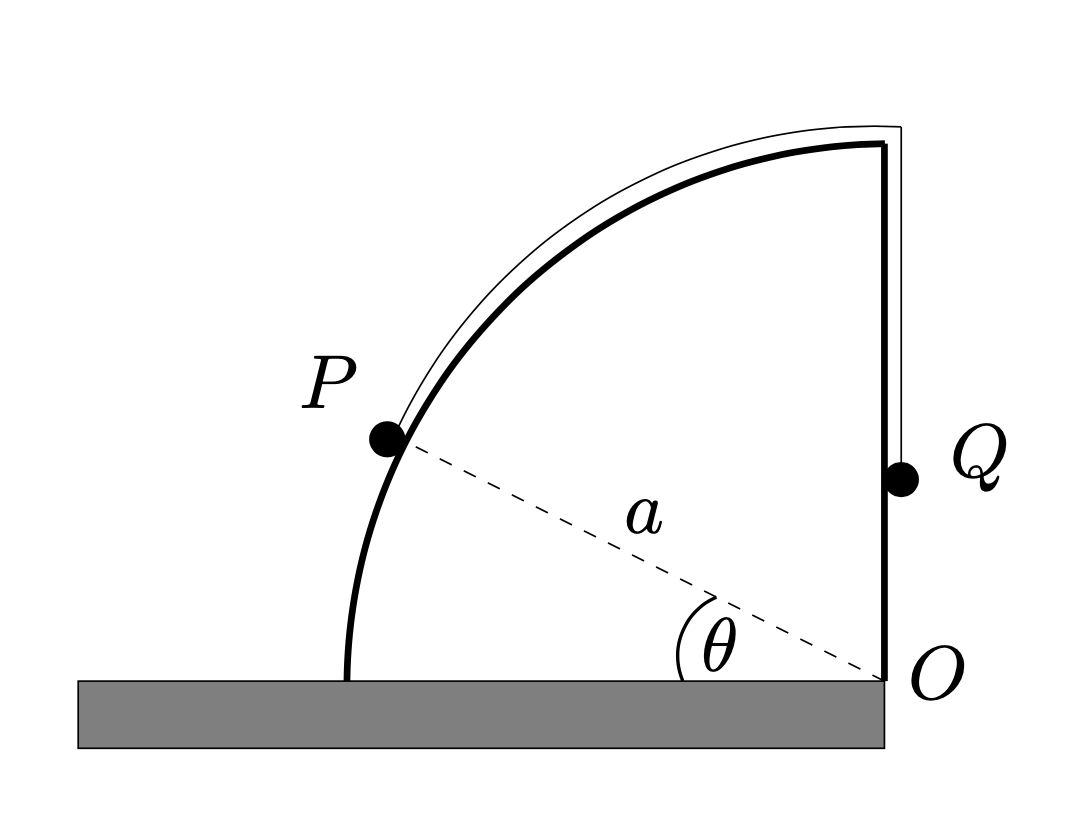
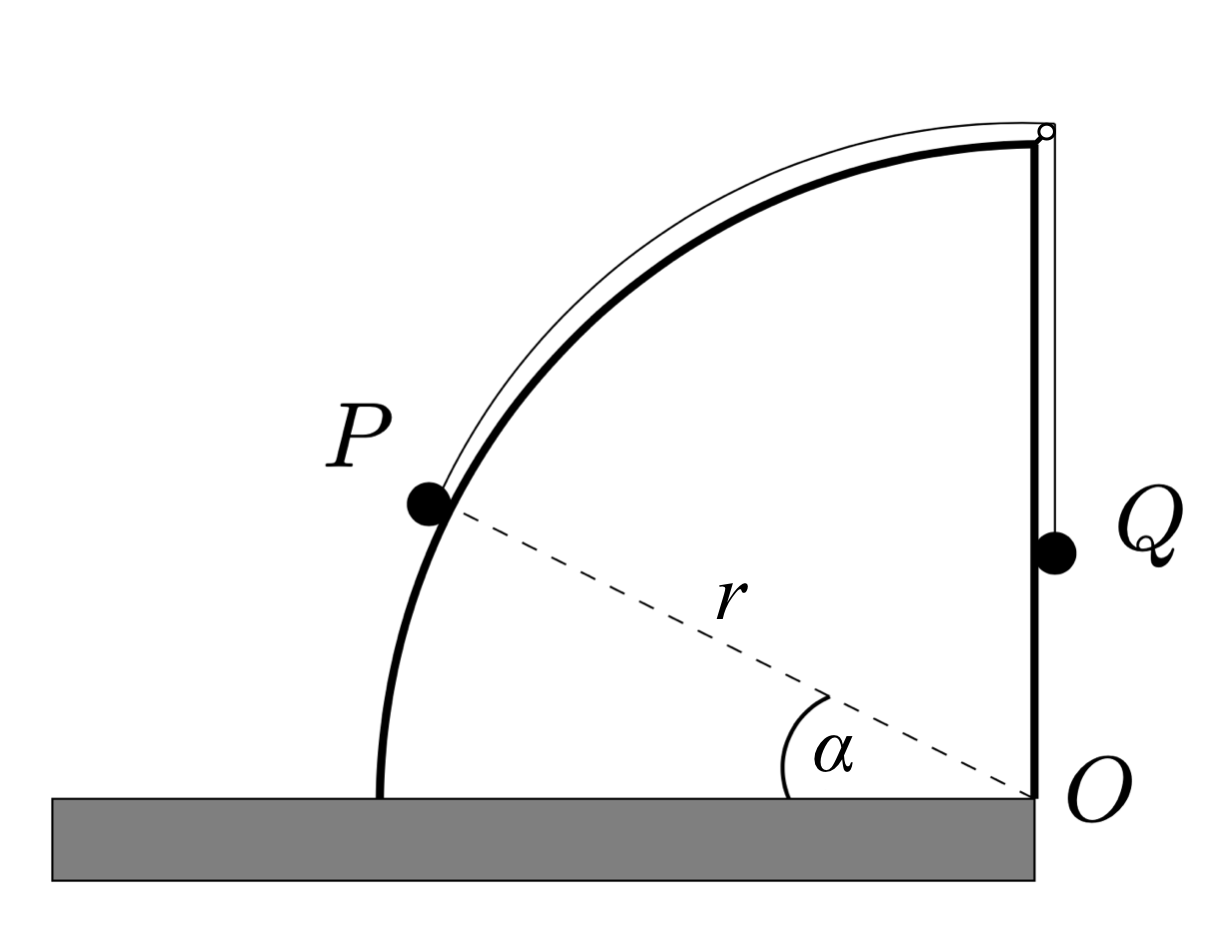
add articles

diff --git a/_posts/2020-12-08-step-3-mechanics-2010-9-solution-1.md b/_posts/2020-12-08-step-3-mechanics-2010-9-solution-1.md
@@ -1,22 +1,122 @@
 ---
-title: 连接体问题求解 (一) —— 以 2010 STEP 3 - Mechanics 第九题为例
+title: 连接体问题求解 (一) —— 改编自 2010 STEP 3 - Mechanics 第 9 题
 url: step-3-mechanics-2010-9-solution-1
 date: 2020-12-08 08:08:39
 tags:
 - STEP
 - A Level
+- Mechanics
 categories:  mechanics
-description: 以 2010 STEP 3 Mechanics 为例，提供思路，并给出两种求解方式。
+description: 以 2010 STEP 3 Mechanics 第 9 题 (改编) 为例，提供解题思路，并给出两种求解方式。
 ---
 
-## 0. 真题
+## 0. 改编题
 
-The diagram shows two particles, $P$ and $Q$, connected by a light inextensible string which passes over a smooth block fixed to a horizontal table. The cross-section of the block is a quarter circle with centre $O$, which is at the edge of the table, and radius $a$. The angle between $OP$ and the table is $\theta$. The masses of $P$ and $Q$ are $m$ and $M$, respectively, where $m \lt M$.
-Initially, $P$ is held at rest on the table and in contact with the block, $Q$ is vertically above $O$, and the string is taut. Then $P$ is released. Given that, in the subsequent motion, P remains in contact with the block as θ increases from $0$ to $\frac{\pi}{2}$, find an expression, in terms of $m$, $M$, $\theta$ and $g$, for the normal reaction of the block on $P$ and show that
+> 本题来自 2010 STEP 3 Mechanics 第 9 题，略有改编。
+
+The diagram shows two particles, $P$ and $Q$, connected by a light inextensible string which passes over a pully. Thr block is smooth and is fixed to a horizontal table. The cross-section of the block, radius $r$, is a quarter circle with centre $O$, which is at the edge of the table. The angle between $OP$ and the table is $\theta$. The masses of $P$ and $Q$ are $m$ and $M$, respectively, where $m \lt M$.
+
+Initially, $P$ is held at rest on the table and in contact with the block, $Q$ is vertically above $O$, and the string is taut. Then $P$ is released. $P$ remains in contact with the block as $\alpha$ increases from $0$ to $\frac{\pi}{2}$ in the subsequent motion.
+
+1. Find an expression for the normal reaction of the block on $P$, using $m$, $M$, $\alpha$ and $g$;
+2. Show that
 
 $$
 \frac{m}{M} \geqslant \frac{\pi-1}{3}
 $$
 
-
 <img src='/assets/images/2020-12-08-step-3-mechanics-2010-9-solution-1/fig.png' style='zoom:40%; margin: 0 auto; display: block;'/>
+
+> 中文版
+
+如图所示，物体 $P$ 用不可伸长的轻绳绕过光滑的定滑轮与物体 $Q$ 相连，$P$ 放置于固定在水平桌面的木块上，木块的横截面是以 $O$ 为圆心，半径为 $r$ 的四分之一圆，位于桌面边缘。$P$ 和 $Q$ 的质量分别为 $m$ 和 $M$，且 $m \lt M$。
+
+$P$ 静止在桌面上并与木块接触，$Q$ 在 $O$ 点正上方，绳子绷紧。若释放物体 $P$，在 $\theta$ 从 $0$ 到 $\frac{\pi}{2}$ 的过程中 $P$ 始终未脱离木块。
+
+1. 求木块对 $P$ 的支持力 (用 $m$、$M$、$\alpha$ 和 $g$ 表示)；  
+2. 证明：
+$$
+\frac{m}{M} \geqslant \frac{\pi-1}{3}
+$$
+
+## 1. 解析 (一)
+
+这是一个连接体问题，由于 $P$ 和 $Q$ 物体用一根轻质绳子连接，$P$ 在弧面运动时，$Q$ 点会下落。由于 $P$ 在整个过程中始终未脱离木块，即 $P$ 运动的速度始终沿着圆弧的切线方向。
+
+对 $P$ 和 $Q$ 物体进行受力分析，并判断状态：
+
+<img src='/assets/images/2020-12-08-step-3-mechanics-2010-9-solution-1/analysis.png' style='zoom:40%; margin: 0 auto; display: block;'/>
+
+$P$ 物体受到重力 $W_P$，木块支持力 $R$，绳子的拉力 $T$。而 $Q$ 物体受到重力 $W_Q$，绳子的拉力 $T$ (同一根绳子的拉力相同)。
+
+由于 $m \lt M$，因此 $Q$ 物体会向下运动，假设向下运动的加速度为 $a$。由于同一根绳子拉力相同，因此 $P$ 物体会沿着切线做加速运动，此外 $P$ 物体又在圆弧面上做圆周运动。
+
+在某一角度 $\alpha$ 下，$P$ 点做圆周运动的方程：
+
+$$
+m g sin \alpha - R = m\frac{v^2}{r} 
+$$
+
+> 这里的 $v$ 指的是切向速度。
+
+由于 $Q$ 物体下落以及绳子的牵引作用，$P$ 物体沿着切线方向的速度在不断增加。可以写出物体 $P$ 在切线方向的方程：
+
+$$
+T - mgcos \alpha = m a
+$$
+
+以及 $Q$ 物体下落的方程：
+
+$$
+Mg - T = M a
+$$
+
+这里，切线方向的加速度会使得速度 $v$ 增加，求解起来比较困难 (可看下篇文章介绍)。 那应该怎么处理呢？
+
+上面三个方程写出了 $P$、$Q$ 两物体受力和运动，那还应该从哪个角度思考呢？—— 能量！
+
+> 试着用动力学的角度求解。
+
+可以写出 $P$、$Q$ 两物体在运动过程中能量的变化：$P$ 物体在上升， $Q$ 物体在下降，两者的动能都在增加，运动速度也相同。
+
+$Q$ 物体下降重力势能减小，转化为 $P$、$Q$ 增加的动能，以及 $P$ 物体重力势能的增加。可写出如下方程：
+
+$$
+MgR\alpha = \frac{1}{2}Mv^2 + \frac{1}{2}mv^2 + mgRsin\alpha
+$$
+
+> $P$ 运动的角度为 $\alpha$，移动的距离为 $R\alpha$，这就等于 $Q$ 物体向下移动的距离，而 $P$ 物体实际上升 $R sin\alpha$。
+
+结合第 1 和 4 方程， 可以消去 $v^2$，得到支持力 $N$ 的表达式，如下：
+
+$$
+N = mgsin\alpha - \frac{2m}{R(m+M)}(MgR\alpha - mgRsin\alpha)
+$$
+
+由于题目中提及 $P$ 物体始终未脱离圆弧面，因此圆弧面的支持力 $N$ 始终为正 (或为 0)。对支持力的表达式进行整理，可得：
+
+$$
+N = \frac{mg[3m sin \alpha + M(sin\alpha-2\alpha)]}{m+M}
+$$
+
+当支持力 $N$ 不能为负，即有：
+
+$$
+mg[3m sin \alpha + M(sin\alpha-2\alpha)] \geqslant 0
+$$
+
+整理可得，
+
+$$
+\frac{m}{M} \geqslant \frac{2\alpha-sin\alpha}{3sin\alpha}
+$$
+
+当 $\alpha$ 从 $0$ 到 $\frac{\pi}{2}$ 变化时，$\frac{m}{M}$ 应大于 $\frac{2\alpha-sin\alpha}{3sin\alpha} $ 的最大值。当 $\alpha = \frac{\pi}{2}$ 有最大值 $\frac{\pi-1}{3}$。即
+
+$$
+\frac{m}{M} \geqslant \frac{\pi-1}{3}
+$$
+
+> 这里要注意 $\frac{2\alpha-sin\alpha}{3sin\alpha} $ 在 $[0, \frac{\pi}{2}]$ 为单调递增，在 $\frac{\pi}{2}$ 取最大值。
+
+
